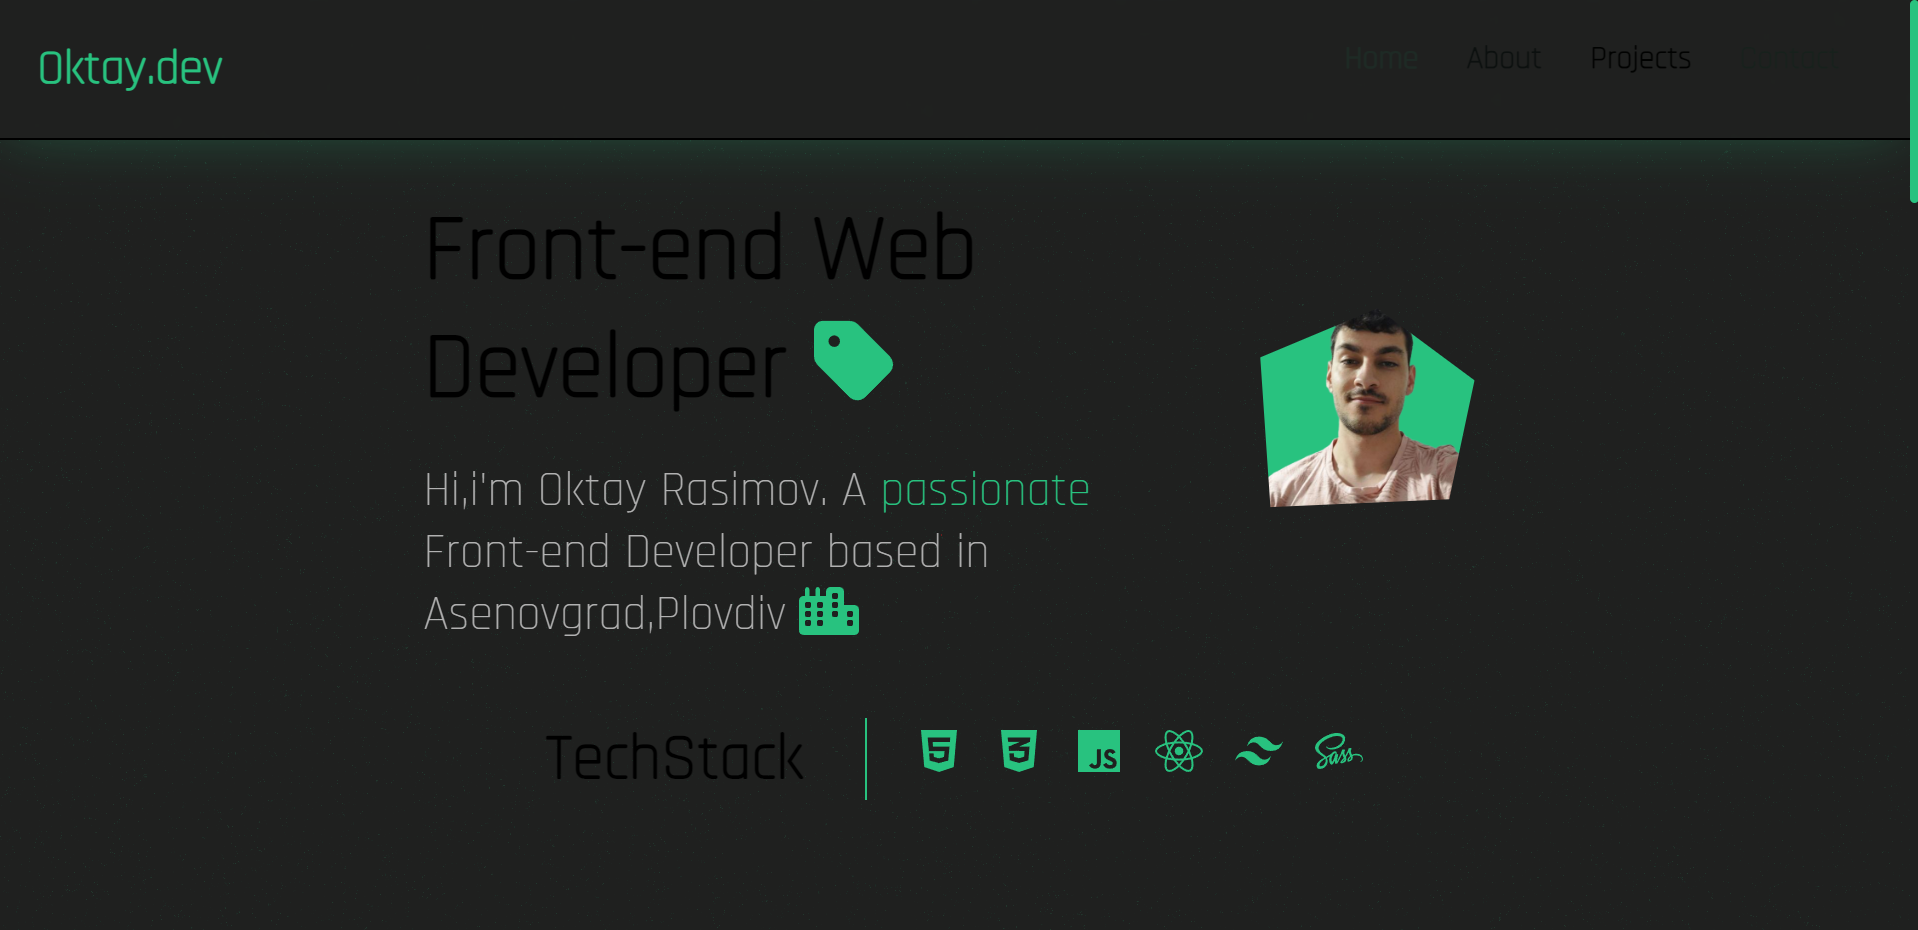
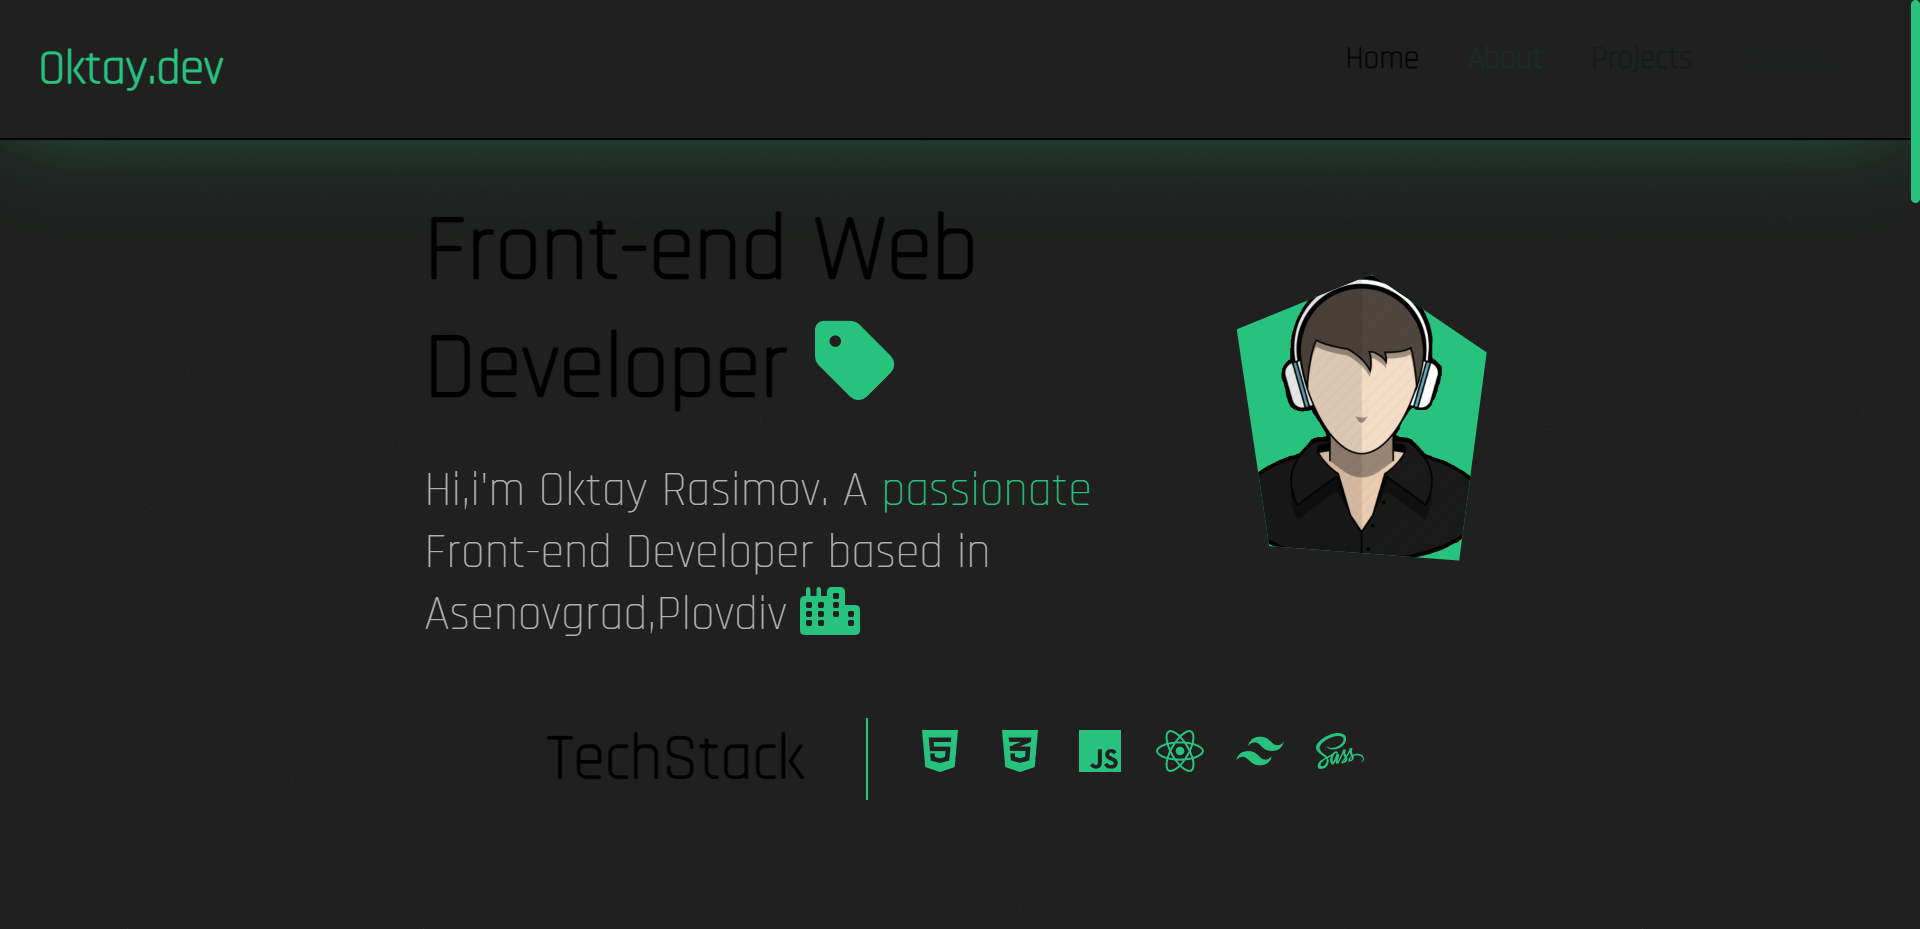
deleted some pics

diff --git a/src/components/Home.js b/src/components/Home.js
@@ -3,7 +3,7 @@ import ReactDOM from "react-dom";
 import { FontAwesomeIcon } from "@fortawesome/react-fontawesome";
 import { faTag, faCity } from "@fortawesome/free-solid-svg-icons";
 
-import finalls from "../components/pics/my-main_final.png";
+import finalls from "../components/pics/finalls.png";
 import TechStack from "./TechStack";
 import { motion } from "framer-motion";
 
